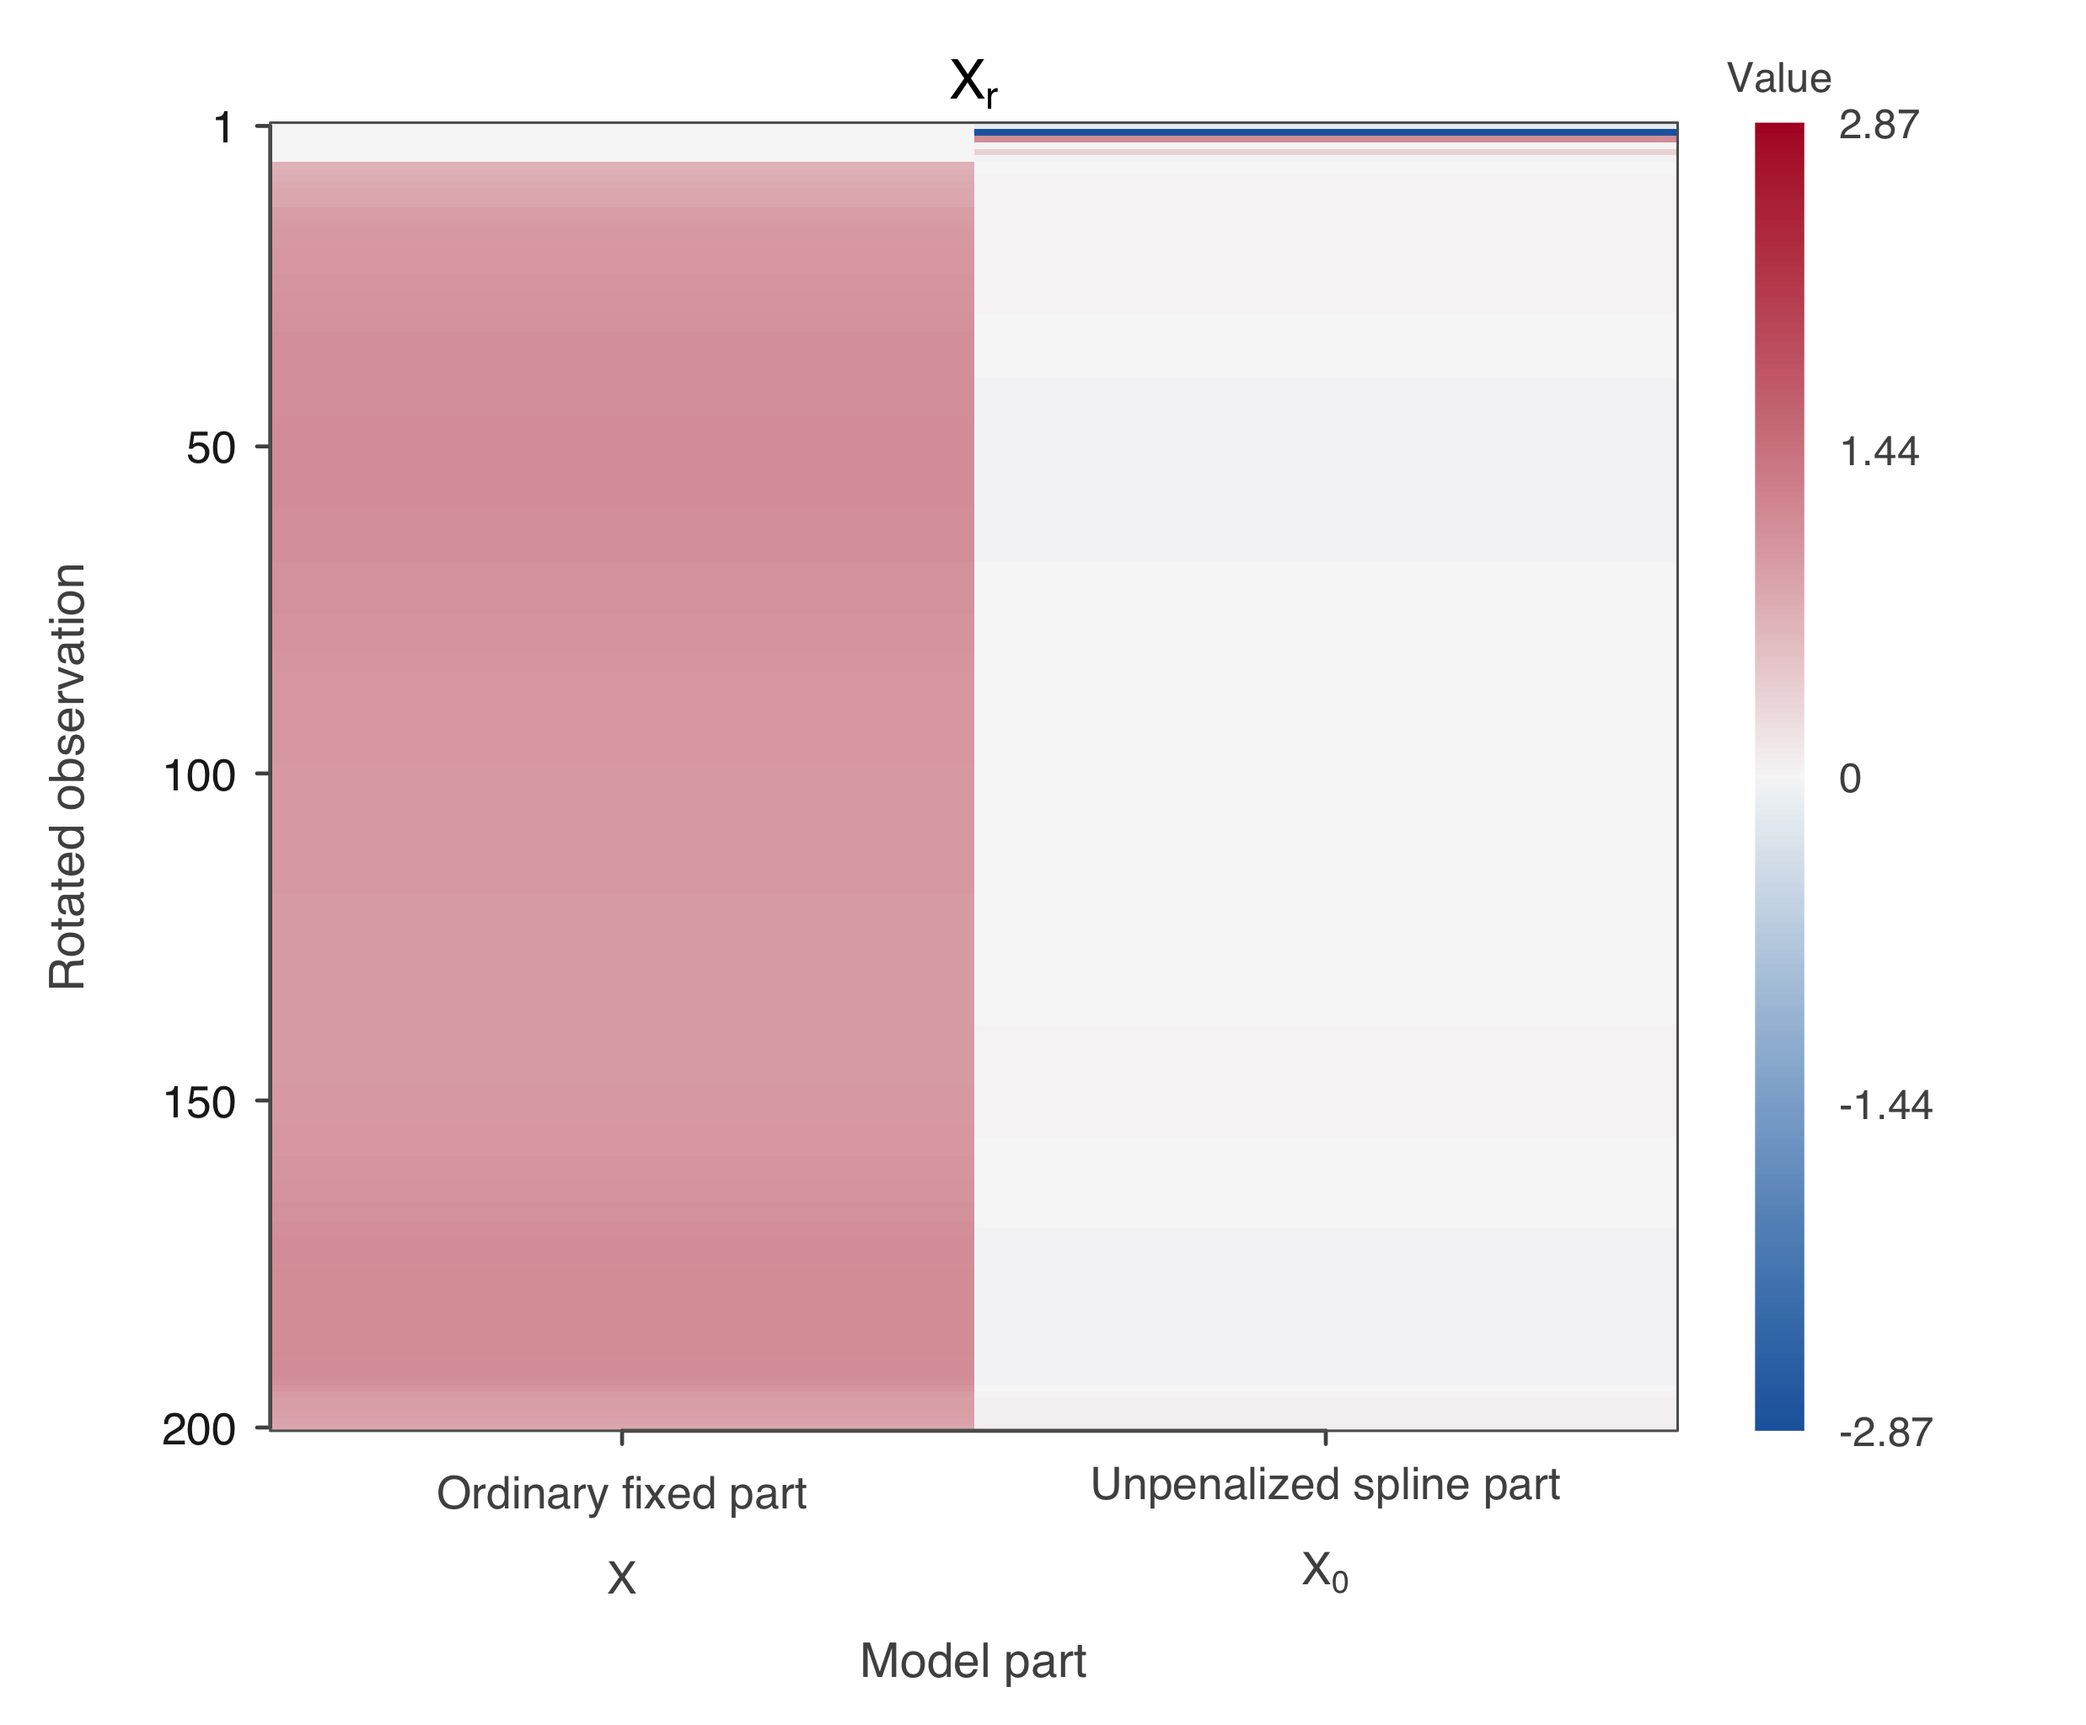
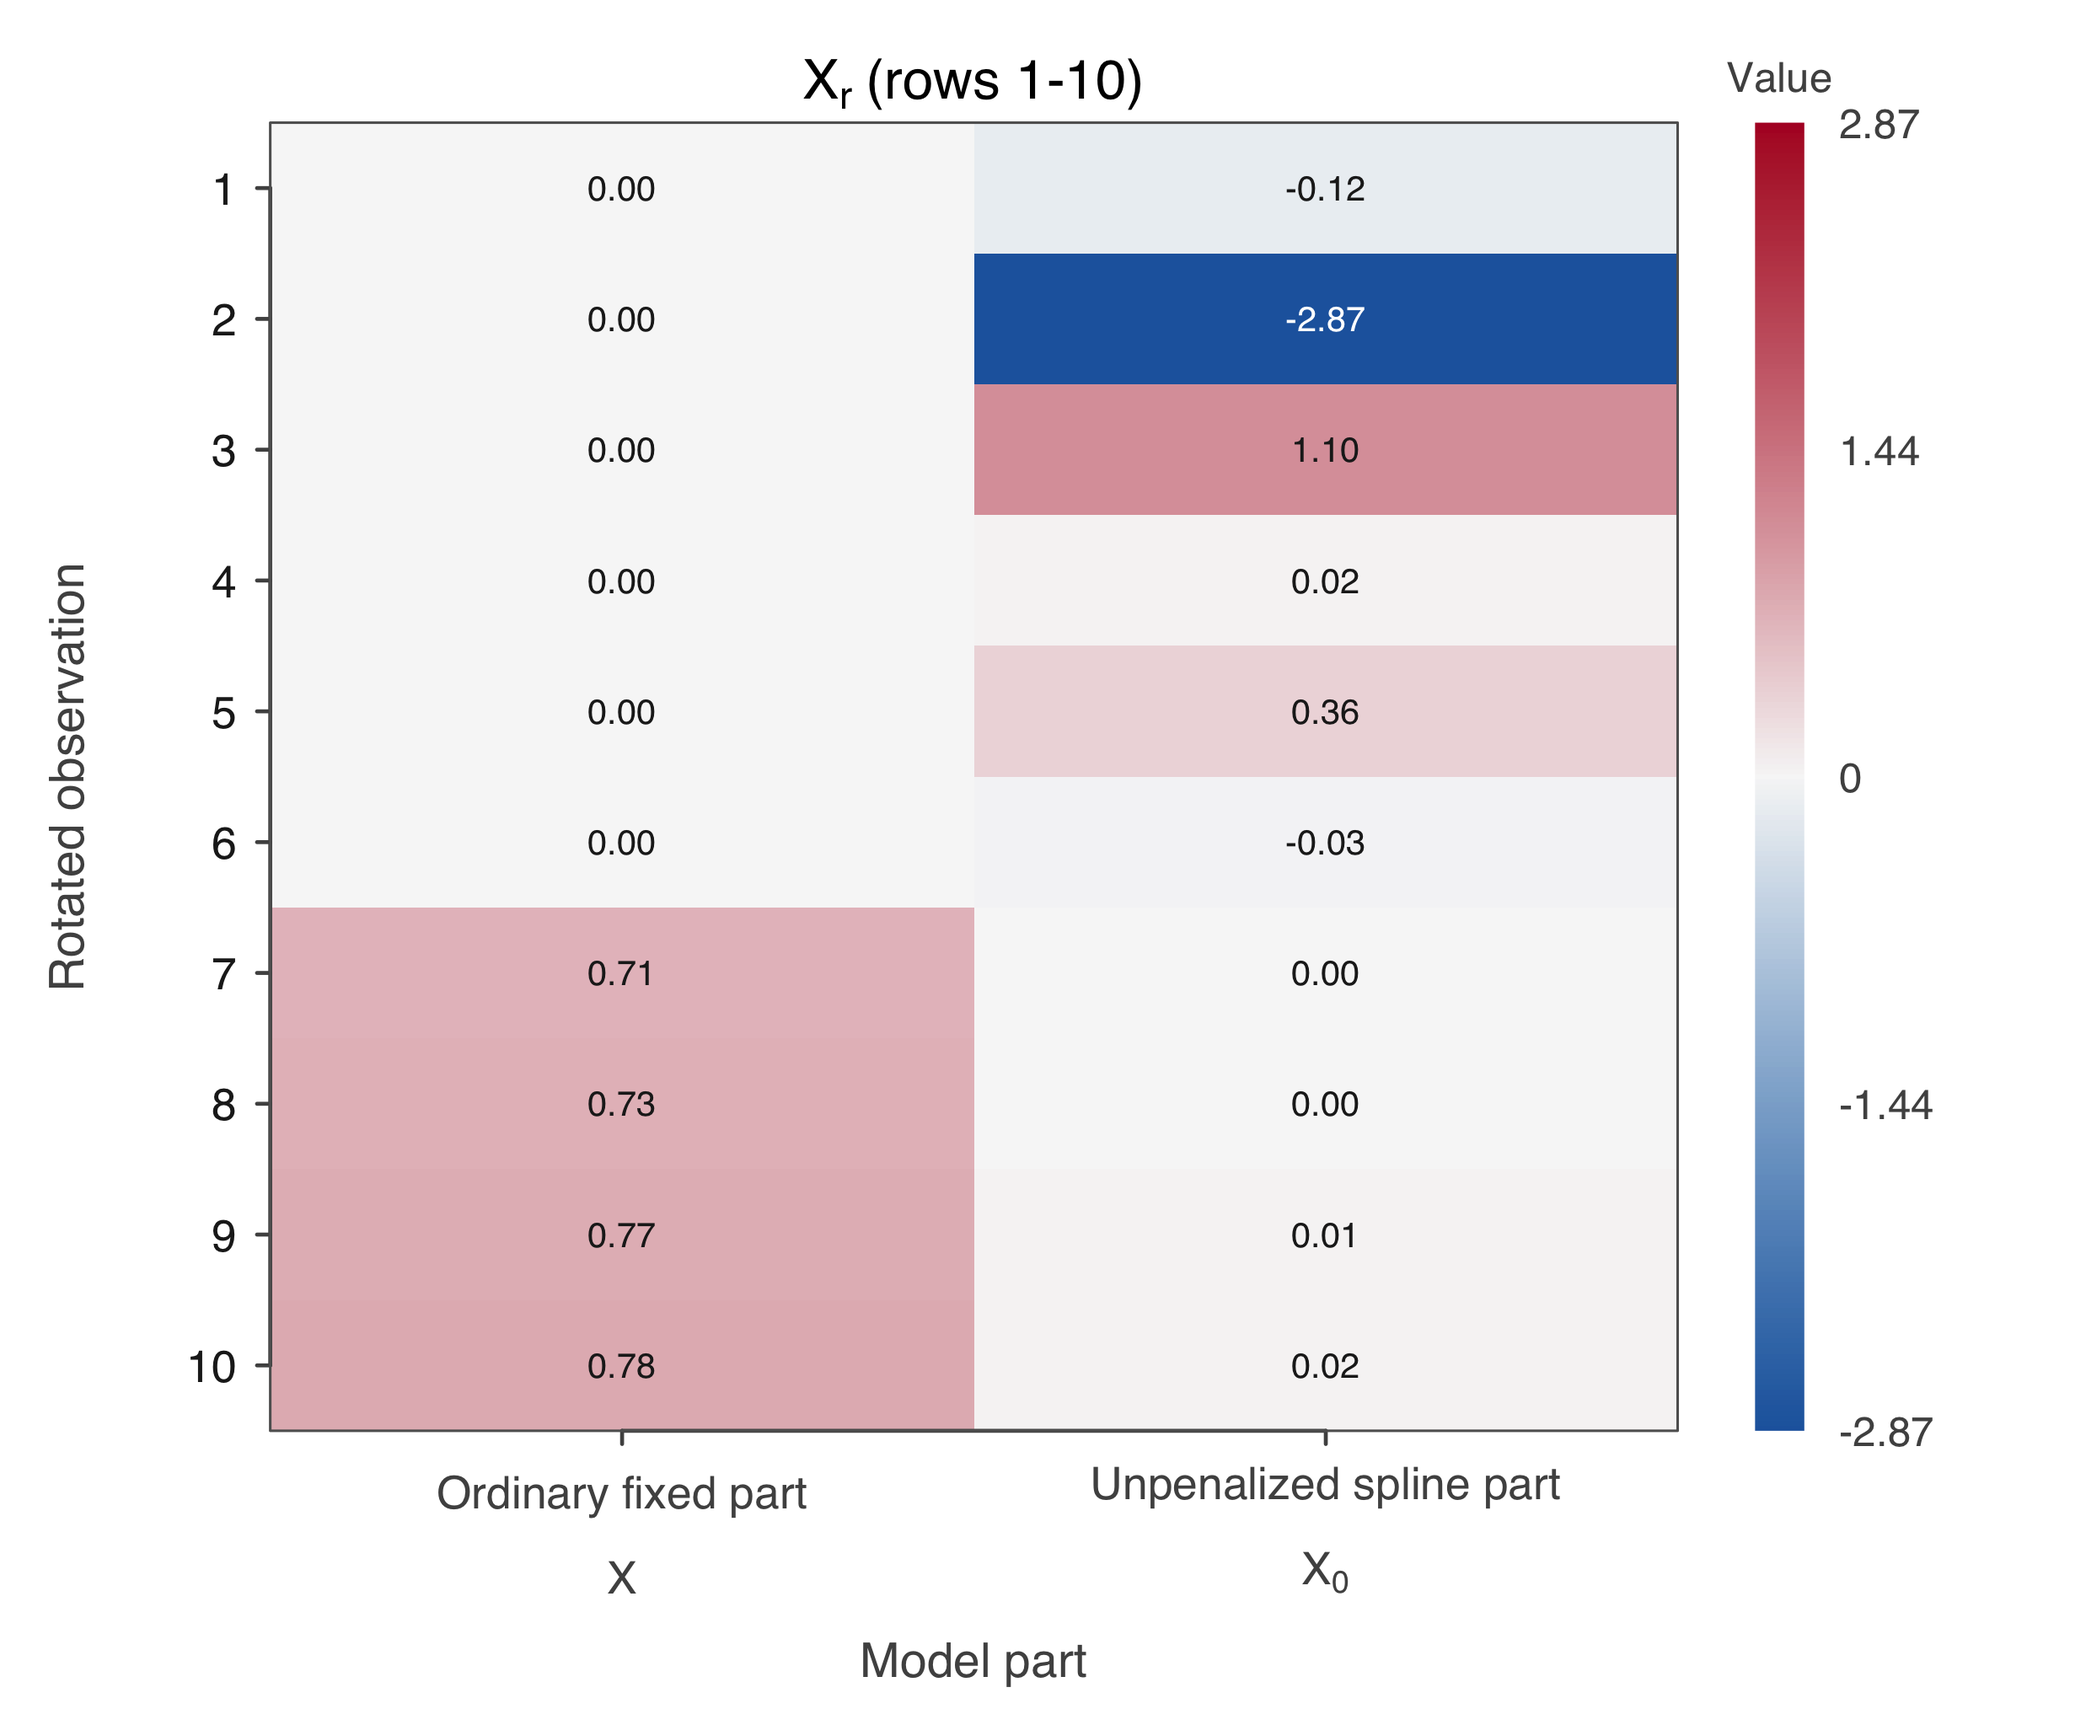
Zoom rotated fixed-design heatmap to its first ten rows

diff --git a/assets/FITTING_MATRICES.md b/assets/FITTING_MATRICES.md
@@ -12,9 +12,11 @@ Colour represents the numerical entry value: red is positive, blue is negative, 
 
 ## Xr: the same fixed parts after rotation
 
-<a href="xr_heatmap.png"><img src="xr_heatmap.png" alt="Fixed model parts after rotation" width="480"></a>
+<a href="xr_heatmap.png"><img src="xr_heatmap.png" alt="Fixed model parts after rotation, rows 1-10" width="480"></a>
 
 The `rotate_inputs` helper derives an orthogonal row transformation $T$ from QR and SVD calculations on the prepared penalized design `Zf`, then computes $X_r = T X_f$. The columns retain their model roles, while each new row combines original observation rows. This changes the colour pattern.
+
+The figure enlarges rows 1–10 of the full 200 × 2 matrix; labels are rounded to two decimal places. Rows 11–200 also contain nonzero values and remain in the fit.
 
 The response and random-effect design are transformed consistently to preserve the model. The response is rotated independently of the fixed-effect columns; placing them side by side with `hcat` does not mix them.
 
